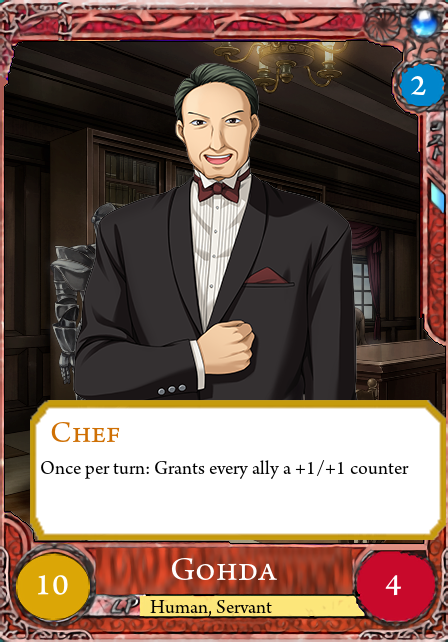
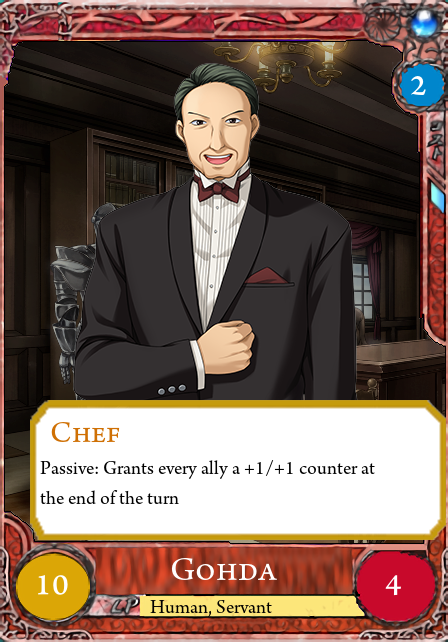
Changes

Changed region(s): [[0.0938, 0.7165, 0.9062, 0.81]]

diff --git a/Assets/Scripts/CardFunctions.cs b/Assets/Scripts/CardFunctions.cs
@@ -61,7 +61,6 @@ public class CardFunctions : MonoBehaviour, IPointerEnterHandler, IPointerExitHa
 
     public void OnPointerClick(PointerEventData eventData)
     {
-        Debug.Log(eventData.pointerClick.name);
         if(Game.INSTANCE.GameState == Game.State.EnemyTurn)
         {
             return;
@@ -149,9 +148,16 @@ public class CardFunctions : MonoBehaviour, IPointerEnterHandler, IPointerExitHa
                 }
                 if (eventData.pointerClick.name == Game.INSTANCE.SelectedCardGameObject.name)
                 {
-                    RemovePreviousMark();
-                    Game.INSTANCE.HidePosibleMovements();
-                    Game.INSTANCE.CardUsingEffect = null;
+                    if (Game.INSTANCE.CardUsingEffect != null)
+                    {
+                        UseEffect(eventData.pointerClick);
+                    }
+                    else
+                    {
+                        RemovePreviousMark();
+                        Game.INSTANCE.HidePosibleMovements();
+                        Game.INSTANCE.CardUsingEffect = null;
+                    }
                 }
                 else
                 {
@@ -235,6 +241,7 @@ public class CardFunctions : MonoBehaviour, IPointerEnterHandler, IPointerExitHa
                                 {
                                     Game.INSTANCE.CardObjectsInGame.Remove(steppedCO);
                                     steppedCO.GameObject.transform.SetParent(Game.INSTANCE.PlayerGraveyard.transform, false);
+                                    CleanCard(steppedCO.GameObject);
                                 }
                             }
                             cardObject.moved = true;
@@ -272,14 +279,7 @@ public class CardFunctions : MonoBehaviour, IPointerEnterHandler, IPointerExitHa
                                 EffectListener.INSTANCE.OnDestroyedCard(cardObject);
                                 GameObject enemyCardGO = Game.INSTANCE.GetCardGameObject(enemyCardSlot);
                                 Game.INSTANCE.CardObjectsInGame.Remove(enemyCardObject);
-                                for (int i = 0; i < eventData.pointerClick.transform.childCount; i++)
-                                {
-                                    GameObject child = eventData.pointerClick.transform.GetChild(i).gameObject;
-                                    if (child.name.StartsWith("CounterPanel") || child.name == "Shield")
-                                    {
-                                        GameObject.Destroy(child);
-                                    }
-                                }
+                                CleanCard(enemyCardObject.GameObject);
                                 enemyCardGO.transform.SetParent(Game.INSTANCE.EnemyGraveyard.transform, false);
                                 if (enemyCardName == Game.INSTANCE.EnemyLeader)
                                 {
@@ -303,6 +303,17 @@ public class CardFunctions : MonoBehaviour, IPointerEnterHandler, IPointerExitHa
         }
     }
 
+    private static void CleanCard(GameObject go)
+    {
+        for (int i = 0; i < go.transform.childCount; i++)
+        {
+            GameObject child = go.transform.GetChild(i).gameObject;
+            if (child.name.StartsWith("CounterPanel") || child.name == "Shield")
+            {
+                GameObject.Destroy(child);
+            }
+        }
+    }
 
     private static void UseEffect(GameObject eventData)
     {

diff --git a/Assets/Scripts/AIFunctions.cs b/Assets/Scripts/AIFunctions.cs
@@ -10,6 +10,7 @@ using static Deck;
 public class AIFunctions : MonoBehaviour
 {
     public static AIFunctions INSTANCE = null;
+    public static int AI_SPEED = 500;
 
     // Start is called before the first frame update
     void Start()
@@ -210,7 +211,7 @@ public class AIFunctions : MonoBehaviour
                     }
                     Game.INSTANCE.UpdateStatBoxes(bestTarget, null, previousParent: targetCardSlot);
                     Game.INSTANCE.RecalculateCosts();
-                    await Task.Delay(1000);
+                    await Task.Delay(AI_SPEED);
                 }
             }
         }
@@ -305,7 +306,7 @@ public class AIFunctions : MonoBehaviour
                     }
                 }
             }
-            await Task.Delay(1000);
+            await Task.Delay(AI_SPEED);
         }
     }
 
@@ -454,7 +455,7 @@ public class AIFunctions : MonoBehaviour
         }
         CardObject co = Game.INSTANCE.PlayCardInSlot(card.ImageName, slot);
         Game.INSTANCE.CardObjectsInGame.Add(co);
-        await Task.Delay(1000);
+        await Task.Delay(AI_SPEED);
         return co.card;
     }
 

diff --git a/Assets/Scripts/Deck.cs b/Assets/Scripts/Deck.cs
@@ -129,7 +129,9 @@ public class Deck
         Card Genji = new Card(2, 12, 2, CardEffects.GenjiEffect, "Genji", new List<TagType> { TagType.Servant, TagType.Human }, true, false, 0);
         EffectListener.INSTANCE.TurnEndingList.Add(Genji);
         AddCardRegister(Genji);
-        AddCardRegister(new Card(2, 10, 4, CardEffects.GohdaEffect, "Gohda", new List<TagType> { TagType.Human, TagType.Servant }, true, false, 1));
+        Card Gohda = new Card(2, 10, 4, CardEffects.GohdaEffect, "Gohda", new List<TagType> { TagType.Human, TagType.Servant }, true, false, 1);
+        EffectListener.INSTANCE.TurnEndingList.Add(Gohda);
+        AddCardRegister(Gohda);
         Card Kanon = new Card(1, 6, 6, CardEffects.KanonEffect, "Kanon", new List<TagType> { TagType.Human, TagType.Servant }, true, false, 0);
         AddCardRegister(Kanon);
         EffectListener.INSTANCE.DestroysCardsList.Add(Kanon);

diff --git a/Assets/Scripts/Game.cs b/Assets/Scripts/Game.cs
@@ -1263,7 +1263,7 @@ public class Game : MonoBehaviour
     public void AddCounterEffect(CardObject co, int numberOfCounters)
     {
         AddCounter(co, numberOfCounters);
-        EffectListener.INSTANCE.OnGettingCounters(co.GameObject, 1);
+        EffectListener.INSTANCE.OnGettingCounters(co.GameObject, numberOfCounters);
     }
 
     internal void RemoveCounter(CardObject co, int numberOfCounters)

diff --git a/Assets/Scripts/CardEffects.cs b/Assets/Scripts/CardEffects.cs
@@ -383,7 +383,11 @@ public class CardEffects
         {
             return false;
         }
-        sakutarouCO.counters *= 2;
+        if(sakutarouCO.counters == 0)
+        {
+            return false;
+        }
+        Game.INSTANCE.AddCounterEffect(sakutarouCO, sakutarouCO.counters);
         return true;
     }
 
